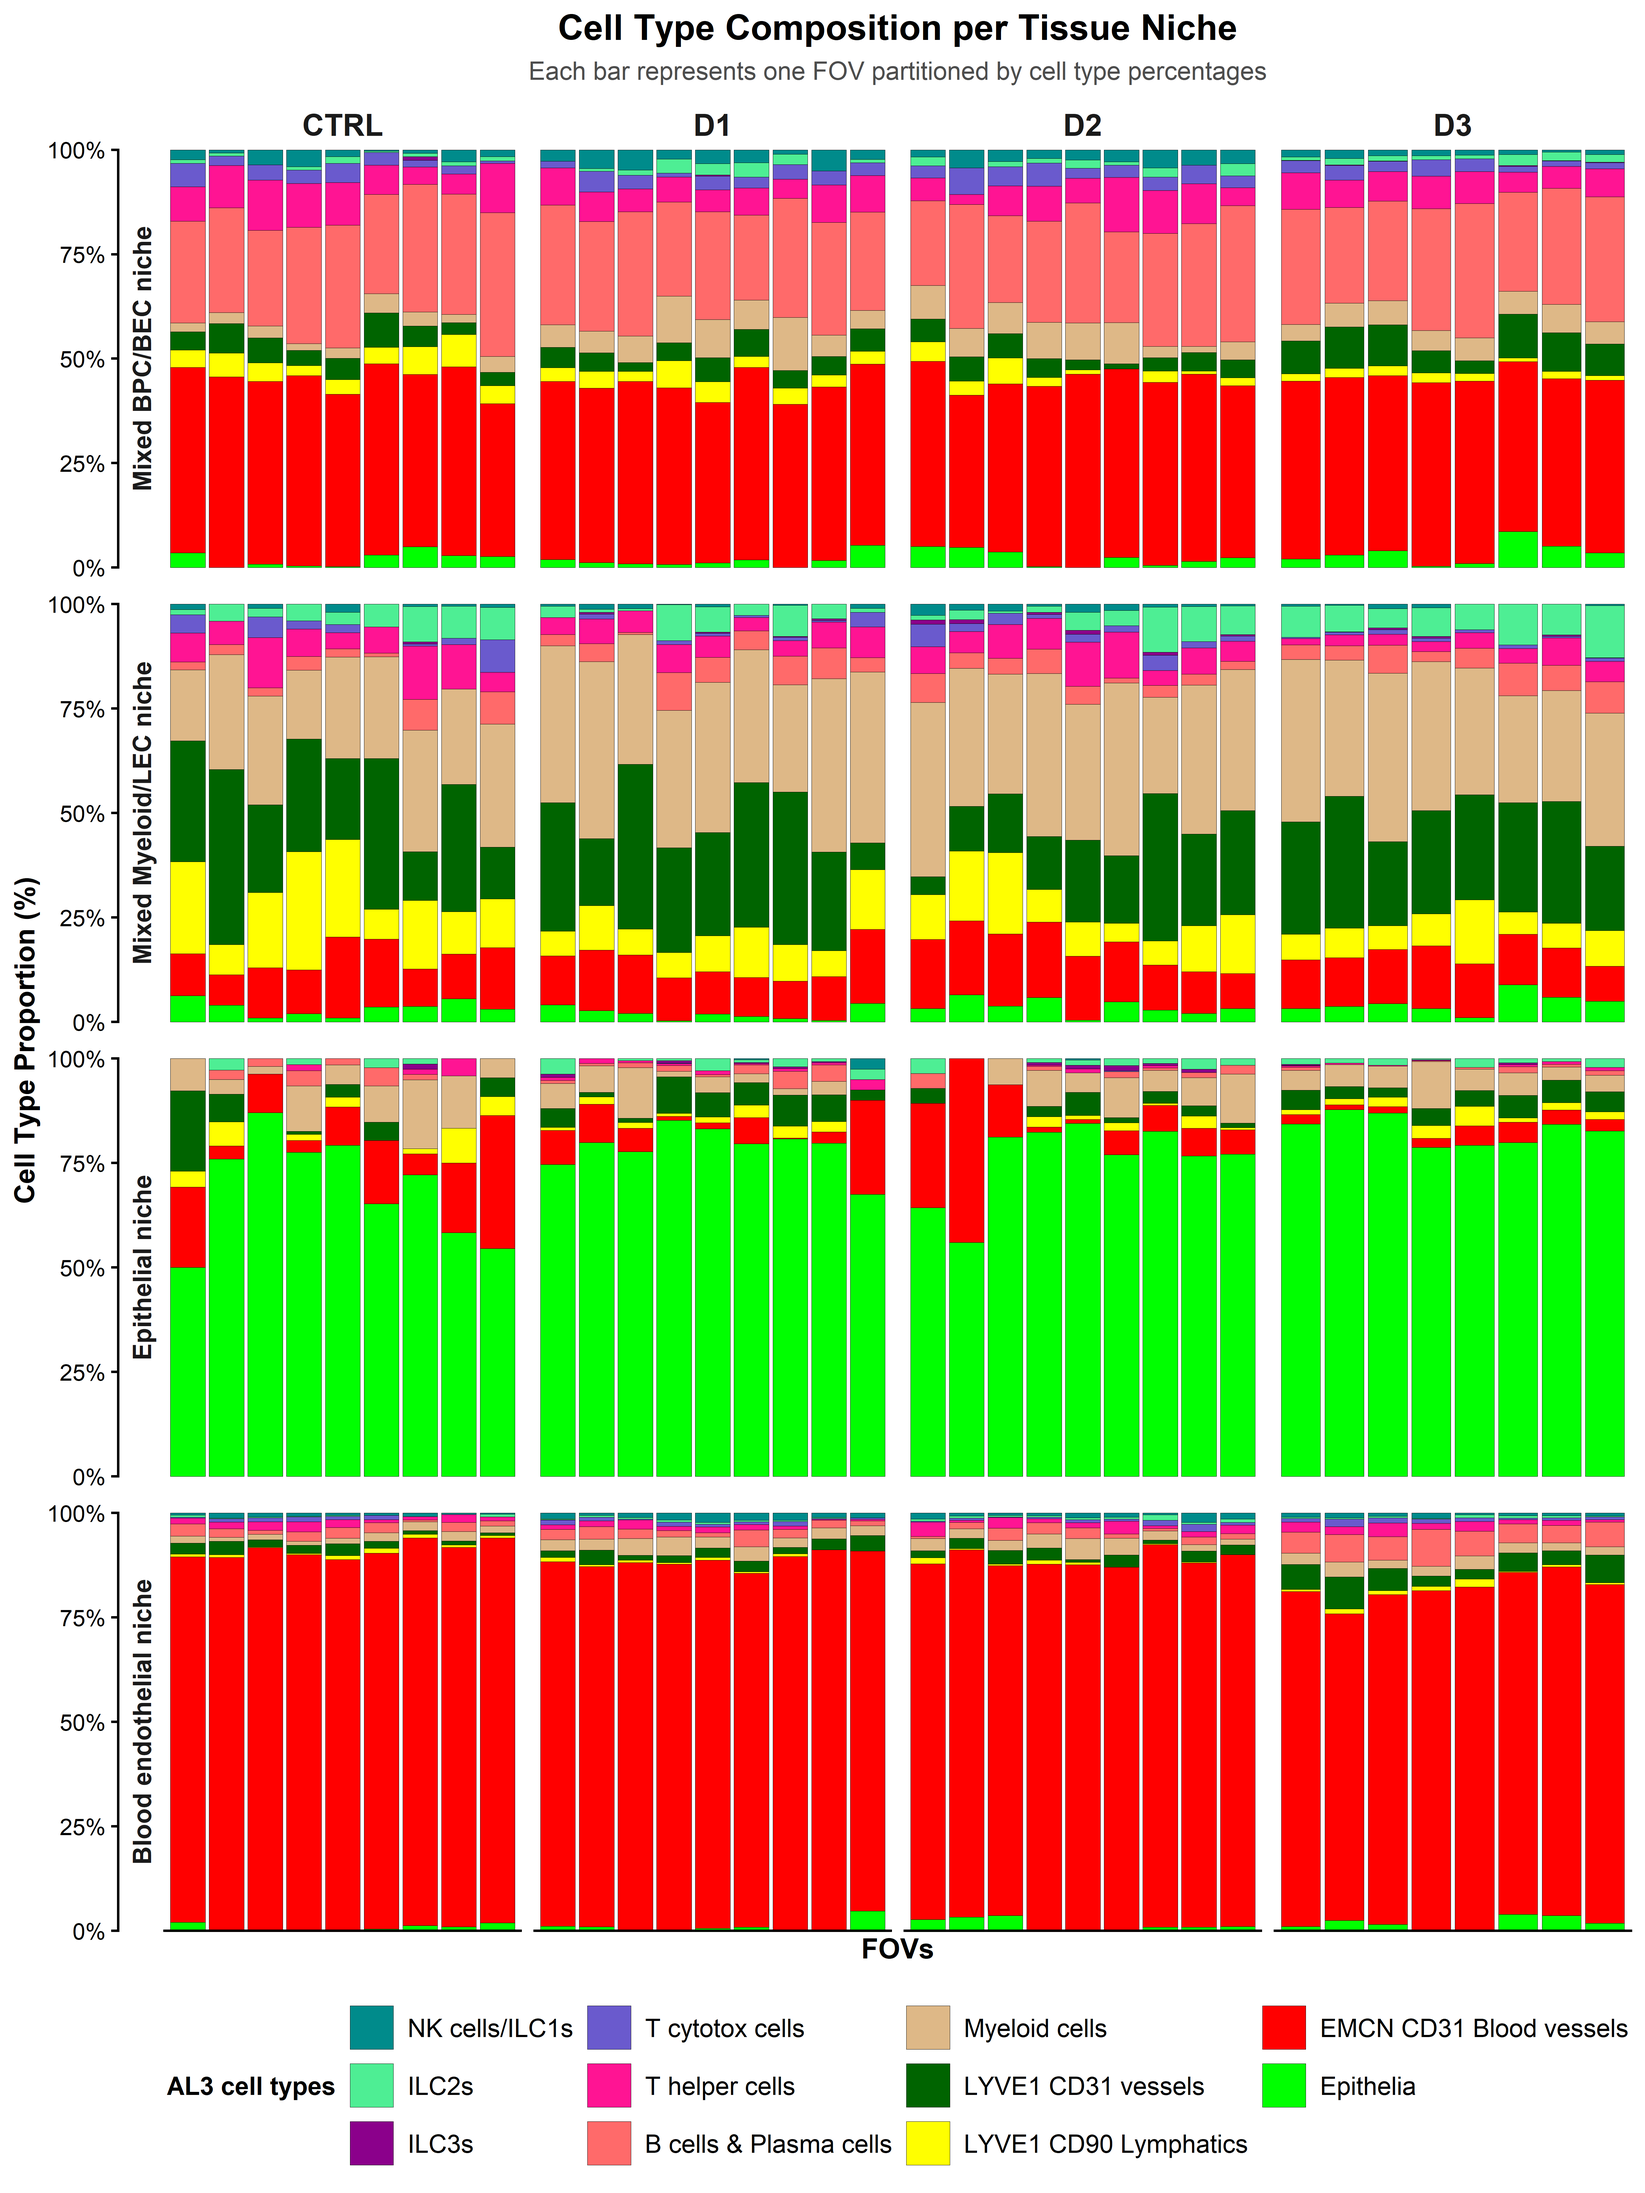
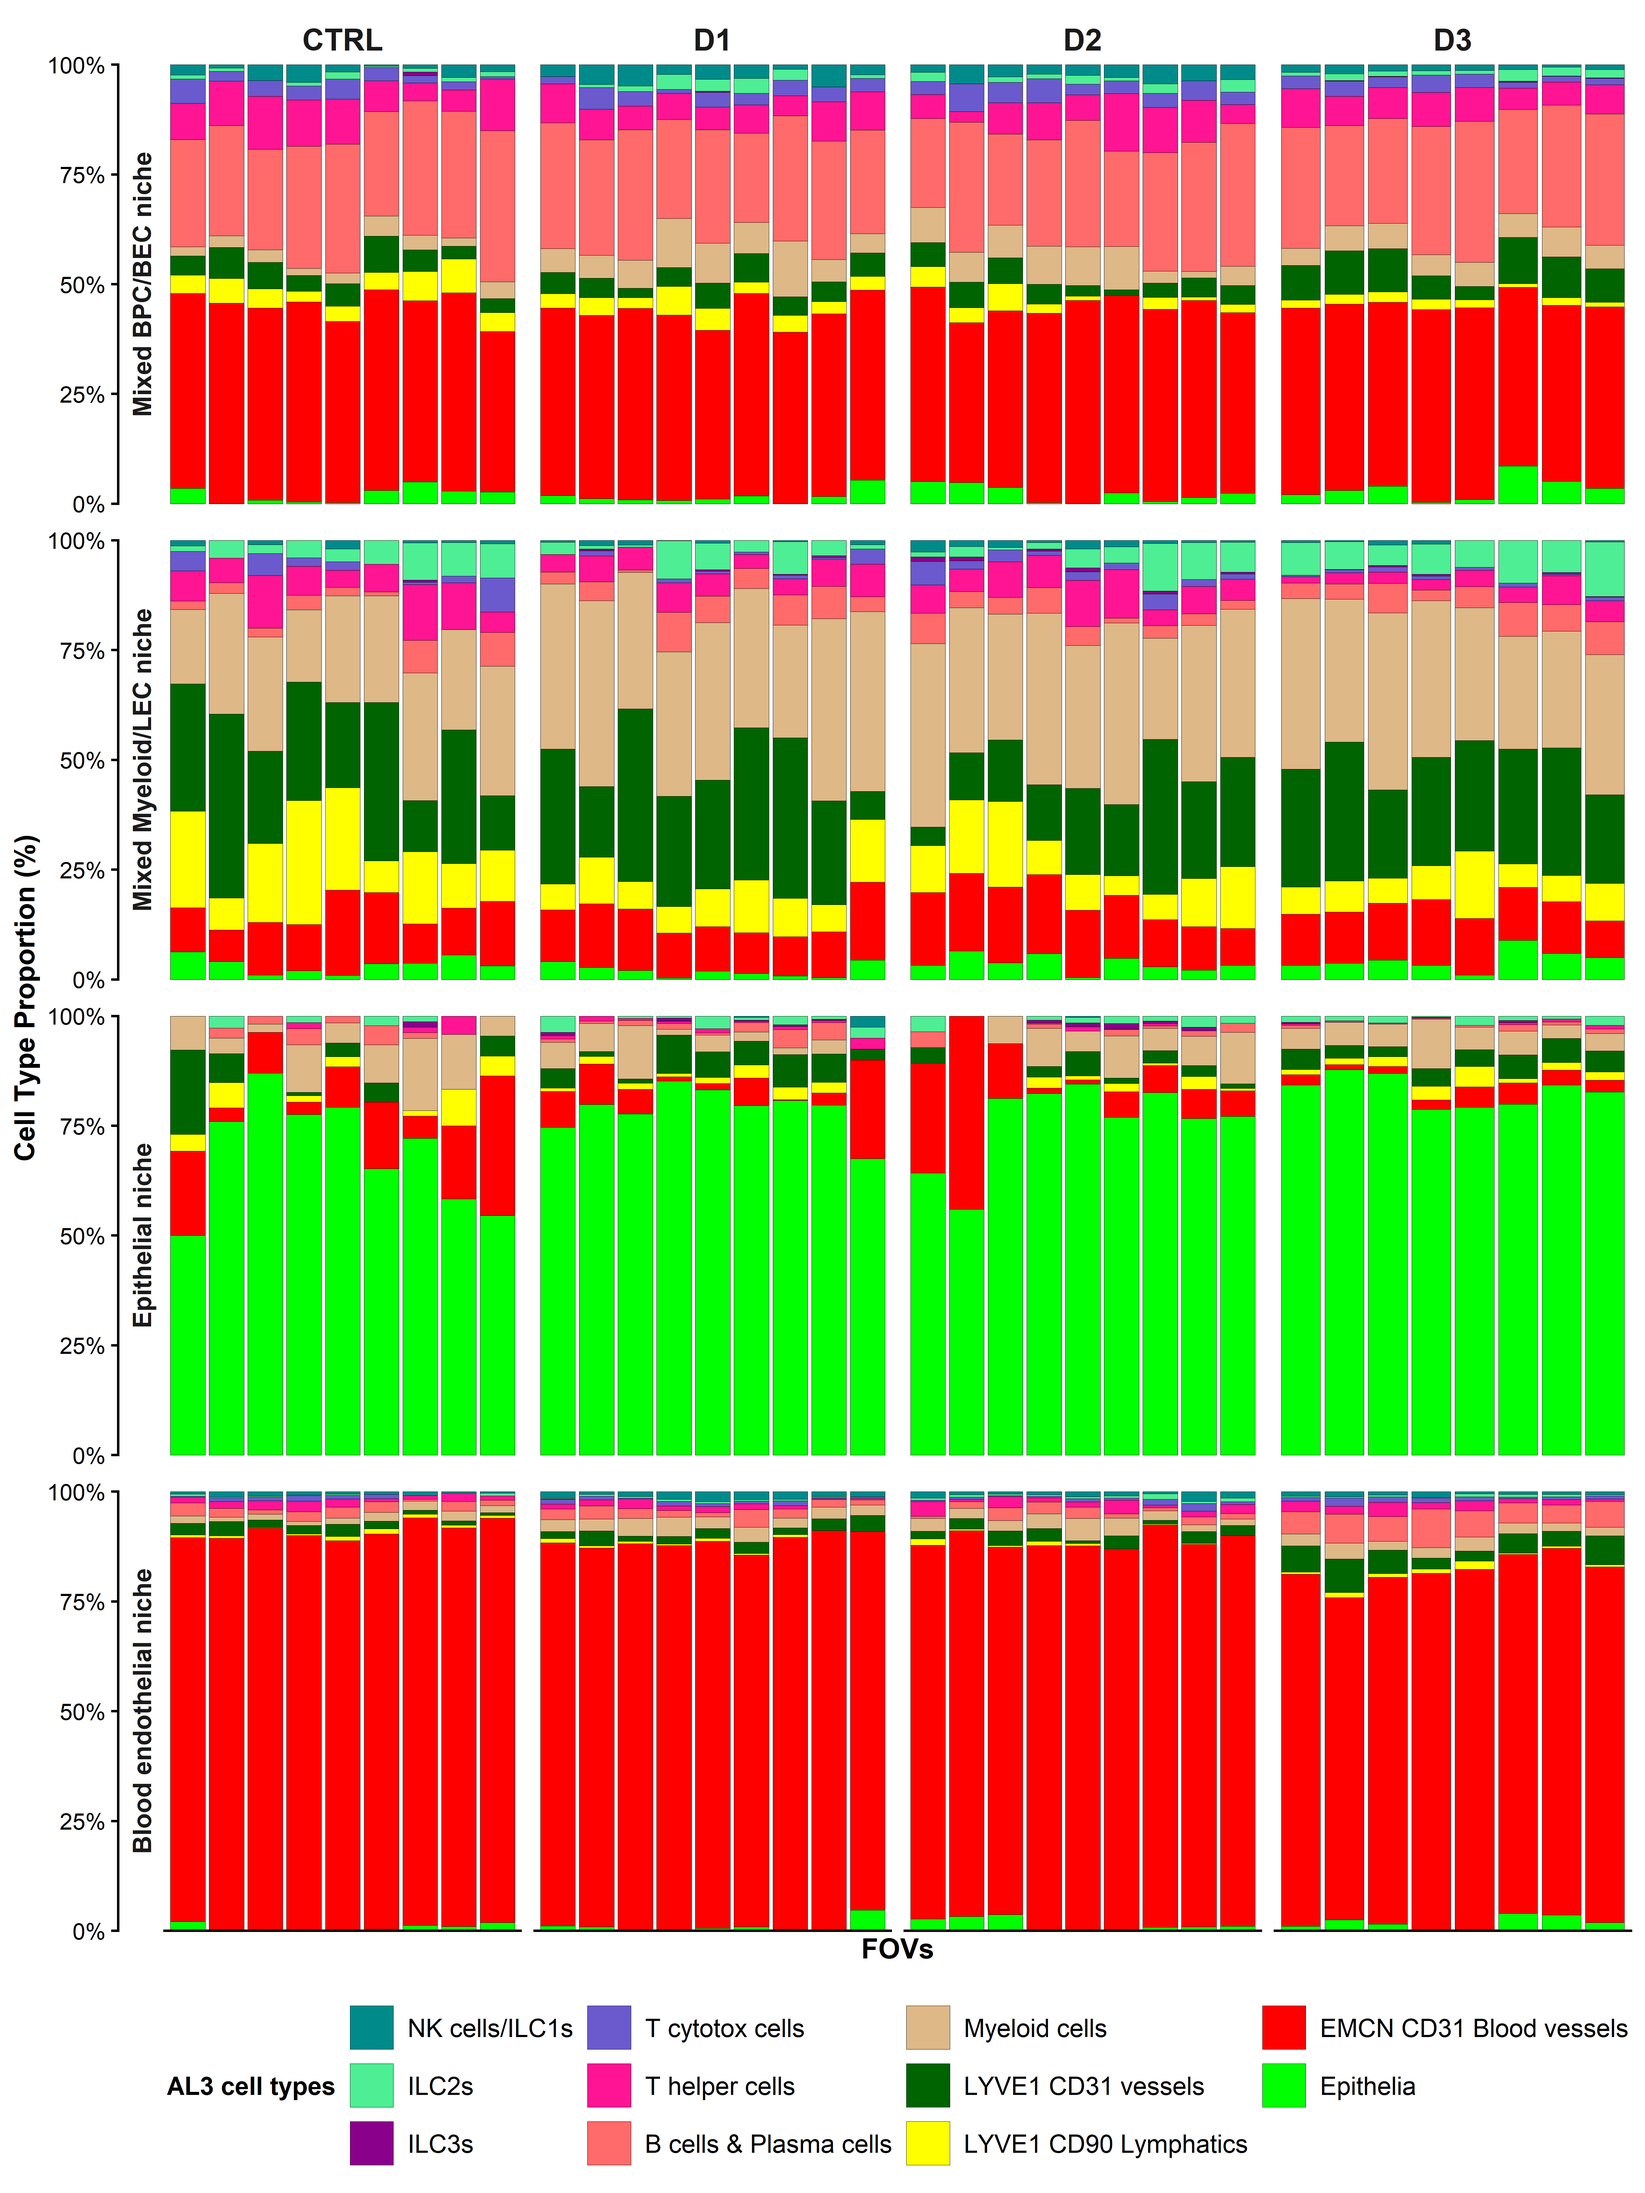
Selection of niche composition plots

diff --git a/2_visualizations_for_figures/Fig_6_Niche_analysis_lung.md b/2_visualizations_for_figures/Fig_6_Niche_analysis_lung.md
@@ -1,7 +1,7 @@
 ---
 title: "Figure 6: Niche analysis mouse lung"
 author: "Sandy Kroh"
-date: "April 23, 2026"
+date: "April 29, 2026"
 output:
   html_document:
     toc: yes
@@ -1196,10 +1196,11 @@ grid_d3 <- wrap_elements(full = (
 final_atlas <- (grid_ctrl | grid_d3) / legend_plot + 
   plot_layout(heights = c(10, 0.2)) +
   plot_annotation(
-    title = "Spatial distribution of tissue niches",
+    # title = "Spatial distribution of tissue niches",
     theme = theme(
       plot.background = element_rect(fill = "black", color = NA),
-      plot.title = element_text(color = "white", size = 12, face = "bold", hjust = 0.5, margin = margin(t = 1, b = 1))
+      # plot.title = element_text(color = "white", size = 12, face = "bold", hjust = 0.5, margin = margin(t = 1, b = 1))
+      plot.title = element_blank()
     )
   ) & theme(plot.background = element_rect(fill = "black", color = NA))
 
@@ -1415,7 +1416,7 @@ for (current_niche in all_niches) {
 
 
 ``` r
-ggarrange(upper_fig, "NONE", final_atlas, ncol = 1, nrow = 3, heights = c(5, 0.1, 4), 
+ggarrange(upper_fig, "NONE", final_atlas, ncol = 1, nrow = 3, heights = c(5.4, 0.1, 3.6), 
           labels = c("", "", "D"), label.y = 1.06)
 ```
 
@@ -1470,8 +1471,9 @@ ggplot(cell_comp_per_niche, aes(x = FullInfo, y = Fraction, fill = CellType)) +
   scale_fill_manual(values = ColorsCellType) +
   scale_y_continuous(labels = scales::percent, expand = c(0, 0)) +
   theme_classic() +
-  labs(title = "Cell Type Composition per Tissue Niche",
-       subtitle = "Each bar represents one FOV partitioned by cell type percentages",
+  labs(
+    # title = "Cell Type Composition per Tissue Niche",
+    # subtitle = "Each bar represents one FOV partitioned by cell type percentages",
        y = "Cell Type Proportion (%)", 
        x = "FOVs",
        fill = "AL3 cell types") +
@@ -1585,6 +1587,46 @@ annotate_figure(
 ```
 
 <img src="Fig_6_Niche_analysis_lung_files/figure-html/unnamed-chunk-22-1.png" alt="" width="100%" style="display: block; margin: auto;" />
+
+
+``` r
+plot_myly <- ggarrange(
+  niche_plots_all[["Mixed Myeloid/LEC niche_Myeloid cells"]],
+  niche_plots_all[["Mixed Myeloid/LEC niche_LYVE1 CD90 Lymphatics"]],
+  ncol = 1, nrow = 2)+
+  theme(plot.margin = margin(0, 0.25, 0, 0, "cm"))
+
+plot_myly <- annotate_figure(
+  plot_myly, 
+  left = text_grob("Mixed Myeloid/LEC niche", color = "black", 
+                  face = "bold", size = 11, hjust = 0.5, rot = 90))+
+  theme(plot.margin = margin(0, 0.25, 0, 0, "cm"))
+
+
+plot_endo <- ggarrange(
+  niche_plots_all[["Blood endothelial niche_B cells & Plasma cells"]],
+  niche_plots_all[["Blood endothelial niche_Myeloid cells"]],
+  niche_plots_all[["Blood endothelial niche_EMCN CD31 Blood vessels"]],
+  niche_plots_all[["Blood endothelial niche_LYVE1 CD31 vessels"]],
+  ncol = 2, nrow = 2)+
+  theme(plot.margin = margin(0, 0.25, 0, 0, "cm"))
+
+plot_endo <- annotate_figure(
+  plot_endo, 
+  left = text_grob("Blood endothelial niche", color = "black", 
+                  face = "bold", size = 11, hjust = 0.5, rot = 90))+
+  theme(plot.margin = margin(0, 0.25, 0, 0, "cm"))
+
+
+
+ggarrange(
+  plot_myly, plot_endo, 
+  ncol = 2, nrow = 1, 
+  widths = c(1, 2), 
+  labels = "AUTO")
+```
+
+<img src="Fig_6_Niche_analysis_lung_files/figure-html/unnamed-chunk-23-1.png" alt="" width="100%" style="display: block; margin: auto;" />
 
 ## Session Information
 
